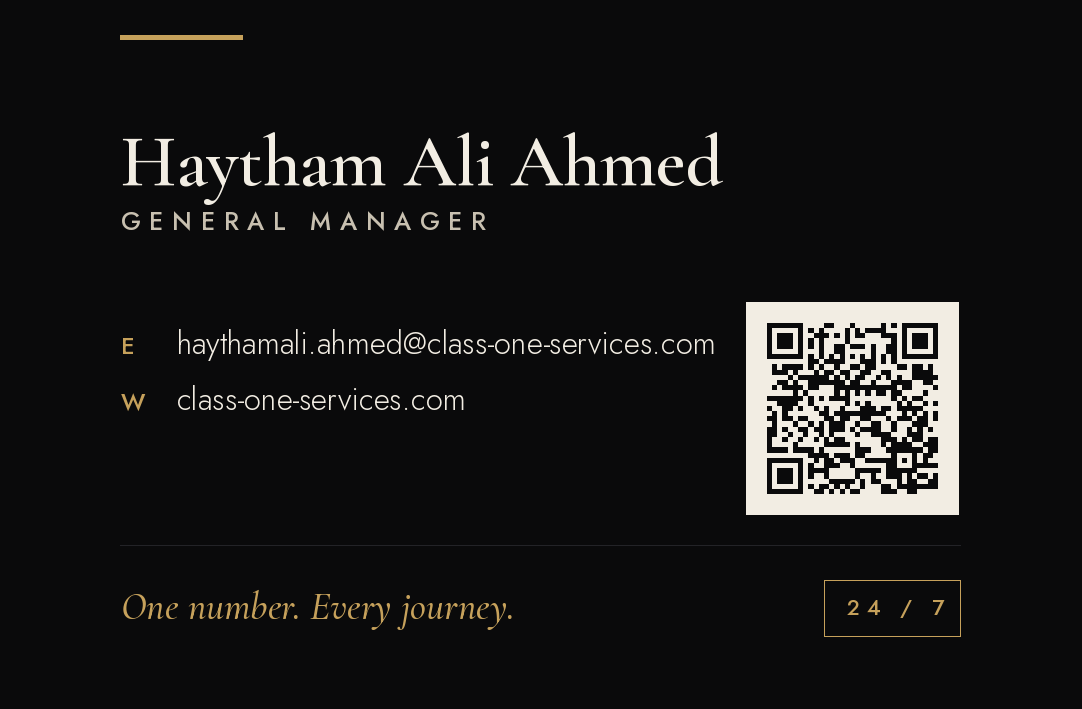
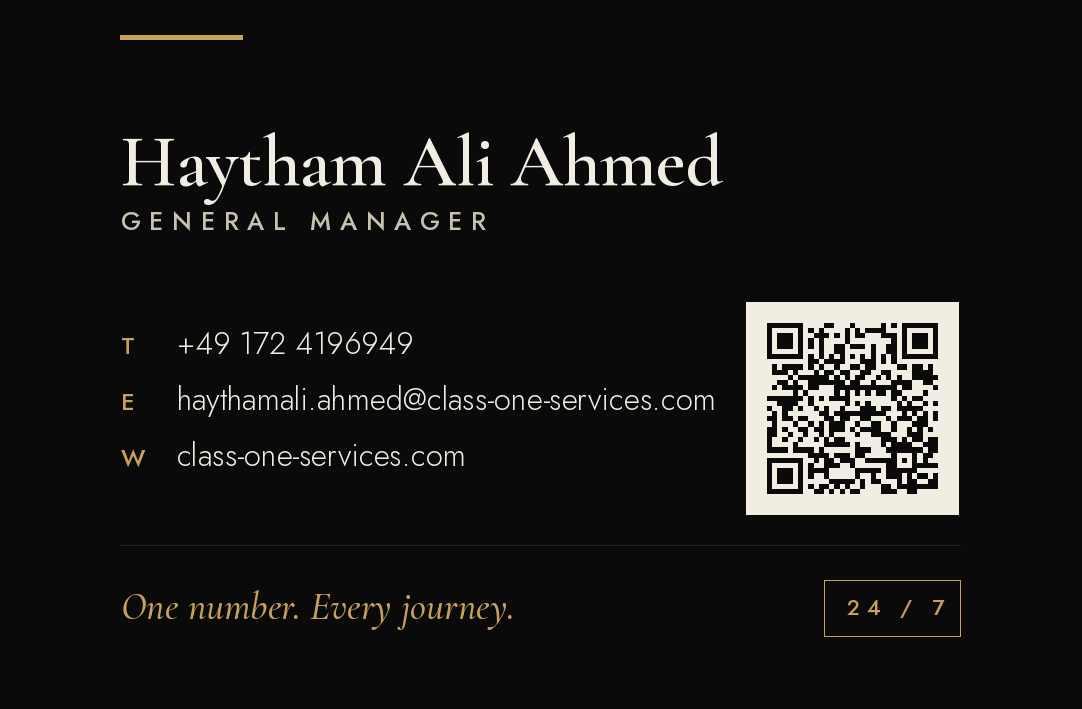
Add the confirmed phone number
+49 172 4196949 set in src/data/site.ts, so it reaches every surface at
once: website header, contact block, footer and mobile sticky bar, the
tel: and wa.me links, the LocalBusiness JSON-LD, the digital card at
/card, the downloadable vCard and the printed card.

Same number for voice and WhatsApp, matching the motto.

Also removed the placeholder scaffolding that is no longer true: the
"(demo number)" caption under the booking form and the TODO comments
warning that the phone was a placeholder.

Fixed a false positive in the card renderer: it tested for the
placeholder by searching the raw file, but that literal also appears in
the phoneUnassigned comparison, so the phone row was suppressed even
after the real number was set. It now compares the parsed field.

Claude-Session: https://claude.ai/code/session_01VXYGsueedviD6rrMe3FDUy

diff --git a/src/data/site.ts b/src/data/site.ts
@@ -11,14 +11,12 @@ export const site = {
   /** Confirmed production domain. */
   url: 'https://class-one-services.com',
 
-  // TODO [TBD]: phone number not yet assigned — display format + E.164 for
-  // tel: links. Until then the header, contact block and sticky bar show a
-  // visibly incomplete number; see the placeholder report before launch.
-  phoneDisplay: '+49 (0)000 000 000',
-  phoneE164: '+49000000000',
+  /** Confirmed. Display format, plus E.164 for tel: links. */
+  phoneDisplay: '+49 172 4196949',
+  phoneE164: '+491724196949',
 
-  // TODO [TBD]: WhatsApp number not yet assigned — international digits, no "+".
-  whatsapp: '49000000000',
+  /** Same number on WhatsApp — international digits, no "+". */
+  whatsapp: '491724196949',
 
   /** Public booking address — site, footer and form replies. */
   email: 'booking@class-one-services.com',

diff --git a/scripts/render_business_card.py b/scripts/render_business_card.py
@@ -49,12 +49,16 @@ def site_values():
         m = re.search(rf"^\s*{key}:\s*'([^']*)'", src, re.M)
         return m.group(1) if m else ""
 
+    # Phone stays off the card until it is real — same rule as the website.
+    # Compare the parsed field, not the raw file: the placeholder literal also
+    # appears in the phoneUnassigned comparison further down site.ts.
+    unassigned = field("phoneE164") in ("", "+49000000000")
+
     return {
         "url": field("url"),
         "email": field("legalEmail"),
         "motto": field("motto"),
-        # Phone stays off the card until it is real — same rule as the website.
-        "phone": "" if "+49000000000" in src else field("phoneDisplay"),
+        "phone": "" if unassigned else field("phoneDisplay"),
     }
 
 
